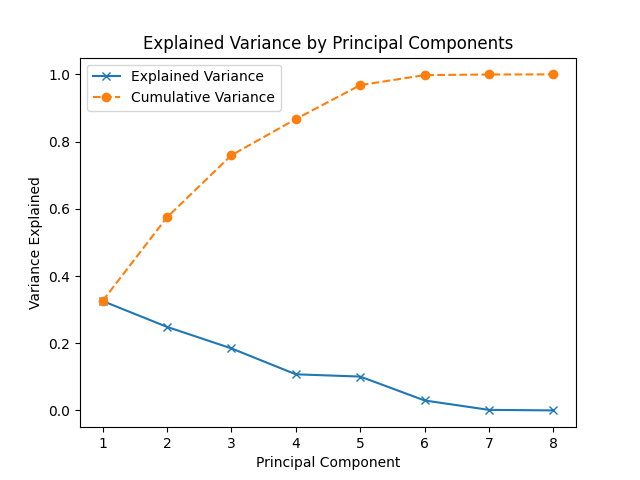
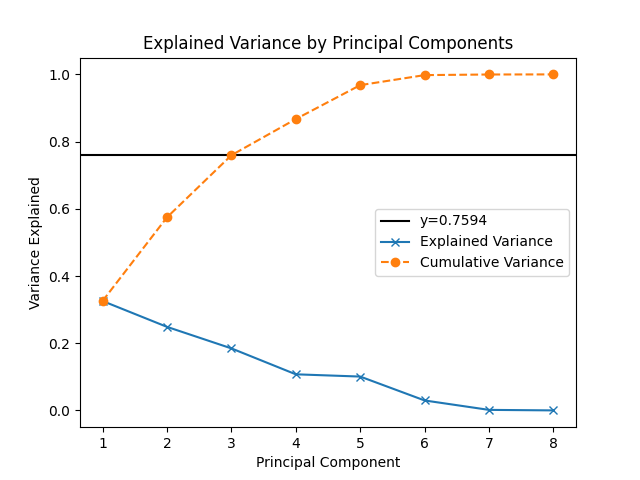
Addition in viz

diff --git a/visualization.py b/visualization.py
@@ -1,5 +1,6 @@
 import numpy as np
 import matplotlib.pyplot as plt
+import pandas as pd
 from mpl_toolkits.mplot3d import Axes3D
 
 
@@ -35,6 +36,29 @@ def project_to2d(title, cbar_label, normalized_df, eigenvectors, strength_norm):
     plt.savefig(f'plots/{title}.png')
     plt.show()
 
+    df = pd.DataFrame(projected_data)
+    df['normalized_comp_strength'] = strength_norm
+    df.sort_values('normalized_comp_strength', ascending=False, inplace=True)
+    first_20_percent = int(0.20 * len(df))
+    df_first_20_percent = df.iloc[:first_20_percent]
+    plt.scatter(df_first_20_percent[0], df_first_20_percent[1], marker='o', linestyle='-', color='b')
+    plt.xlabel('PC1')
+    plt.ylabel('PC2')
+    plt.title('Plot of Best 20% of Data')
+    plt.savefig(f'plots/best.png')
+    plt.show()
+
+    df = pd.DataFrame(projected_data)
+    df['normalized_comp_strength'] = strength_norm
+    df.sort_values('normalized_comp_strength', ascending=True, inplace=True)
+    first_20_percent = int(0.20 * len(df))
+    df_first_20_percent = df.iloc[:first_20_percent]
+    plt.scatter(df_first_20_percent[0], df_first_20_percent[1], marker='o', linestyle='-', color='b')
+    plt.xlabel('PC1')
+    plt.ylabel('PC2')
+    plt.title('Plot of Worst 20% of Data')
+    plt.savefig(f'plots/worst.png')
+    plt.show()
 
 def eigenvalue_plot(cumulative_variance, percentile):
     print("___________________________________________________________________________________________________________")
@@ -43,6 +67,7 @@ def eigenvalue_plot(cumulative_variance, percentile):
         print(f"Cumulative: {cumulative_variance[i]:.4f} \t Percentage: {percentile[i]:.4f}")
     print("___________________________________________________________________________________________________________")
     # Plot the variance explained
+    plt.axhline(y=0.7594, color='black', linestyle='-', label='y=0.7594')
     plt.plot(percentile, 'x-', label="Explained Variance")
     plt.plot(cumulative_variance, 'o--', label="Cumulative Variance")
     plt.xticks(np.arange(len(percentile)), np.arange(1, len(percentile) + 1))
